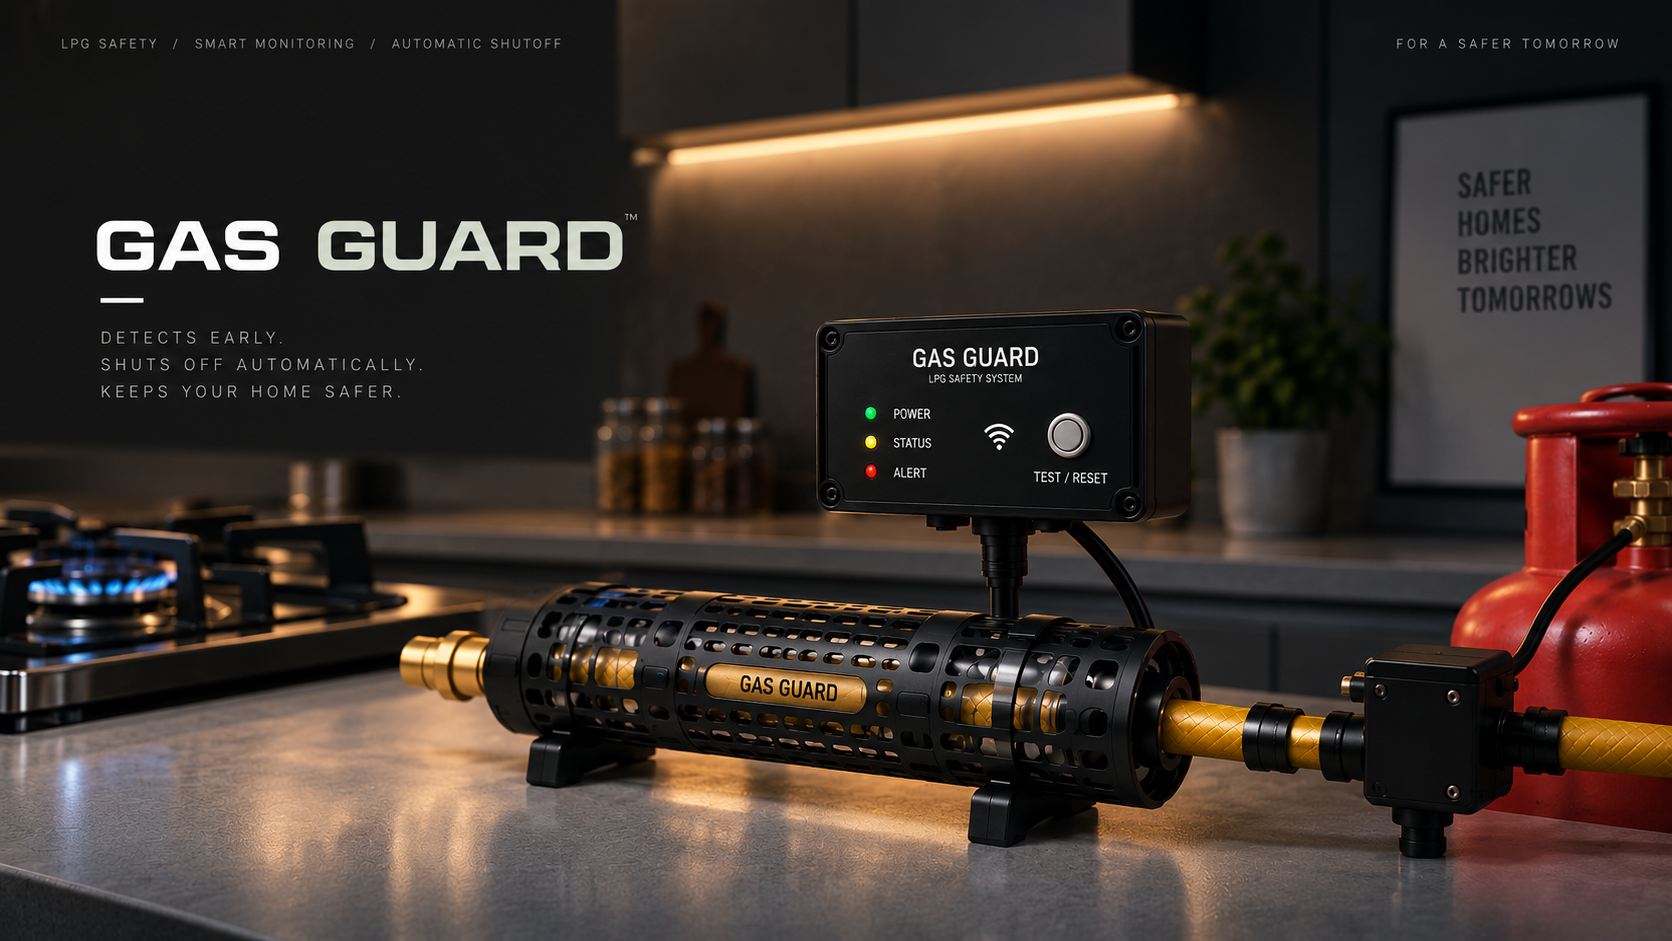
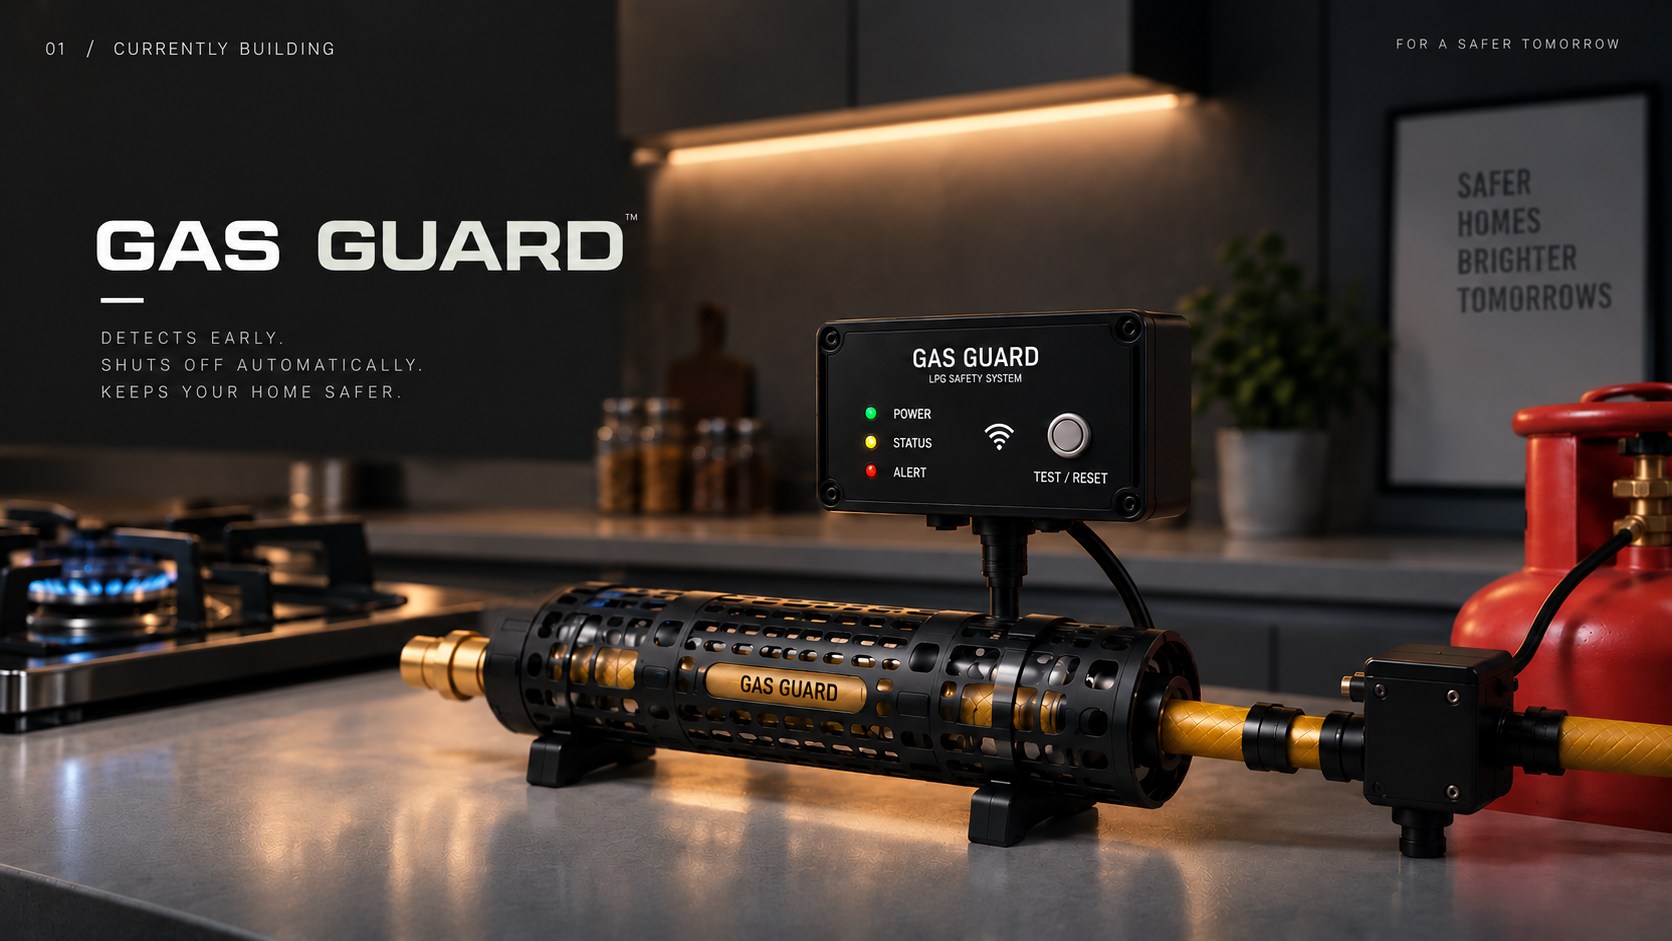
about completed

diff --git a/src/app/about/page.tsx b/src/app/about/page.tsx
@@ -246,66 +246,14 @@ export default function AboutPage() {
         ==================================================
       */}
       <section className="relative w-full border-b border-[var(--foreground)]/10 overflow-hidden bg-[#0a0a0a]">
-        {/* Full-bleed image with dark overlay */}
+        {/* Full-bleed image */}
         <div className="relative w-full h-[70vh] md:h-[85vh] overflow-hidden">
           <img
             src={currentlyBuilding.image}
-            alt={currentlyBuilding.subtitle}
-            className="w-full h-full object-cover scale-[1.05] parallax-img"
+            alt="Currently Building"
+            className="w-full h-full object-cover parallax-img"
             data-speed="0.08"
           />
-          {/* Dark gradient overlay */}
-          <div className="absolute inset-0 bg-gradient-to-b from-black/60 via-black/30 to-black/80" />
-          <div className="absolute inset-0 bg-gradient-to-r from-black/70 via-transparent to-black/30" />
-
-          {/* TOP BAR */}
-          <div className="absolute top-0 left-0 right-0 flex items-center justify-between px-6 md:px-10 pt-6 md:pt-8">
-            <div className="flex items-center gap-3 font-mono text-[9px] text-white/50 tracking-[0.25em] uppercase">
-              <span>{currentlyBuilding.index}</span>
-              <span className="text-white/20">/</span>
-              <span>CURRENTLY BUILDING</span>
-            </div>
-            <div className="hidden md:flex items-center gap-4 font-mono text-[9px] text-white/40 tracking-[0.2em] uppercase">
-              {currentlyBuilding.tags.map((t, i) => (
-                <span key={i} className="flex items-center gap-4">
-                  {i > 0 && <span className="text-white/20">/</span>}
-                  {t}
-                </span>
-              ))}
-            </div>
-          </div>
-
-          {/* MAIN CONTENT — bottom left */}
-          <div className="absolute bottom-0 left-0 right-0 px-6 md:px-10 pb-6 md:pb-8 flex flex-col md:flex-row items-end justify-between gap-6">
-            
-            {/* Left: Title block */}
-            <div className="flex flex-col gap-3 max-w-lg">
-              <h2 className="font-display font-black text-[clamp(2.5rem,6vw,5rem)] leading-[0.85] tracking-tighter uppercase text-white whitespace-pre-line">
-                {currentlyBuilding.title}
-              </h2>
-              <p className="font-sans text-base md:text-lg text-white/60 uppercase tracking-widest font-light">
-                {currentlyBuilding.subtitle}
-              </p>
-              <div className="w-8 h-[1px] bg-white/30 my-1" />
-              <p className="font-sans text-sm md:text-base text-white/50 leading-relaxed whitespace-pre-line">
-                {currentlyBuilding.description}
-              </p>
-            </div>
-
-            {/* Right: CTA */}
-            <a
-              href={currentlyBuilding.ctaHref}
-              className="group hidden md:flex items-center gap-3 font-mono text-[10px] text-white tracking-[0.25em] uppercase border border-white/30 hover:border-white/70 px-5 py-3 transition-all duration-300 flex-shrink-0 relative"
-            >
-              {/* Corner brackets */}
-              <span className="absolute top-0 left-0 w-2 h-2 border-t border-l border-white/60" />
-              <span className="absolute top-0 right-0 w-2 h-2 border-t border-r border-white/60" />
-              <span className="absolute bottom-0 left-0 w-2 h-2 border-b border-l border-white/60" />
-              <span className="absolute bottom-0 right-0 w-2 h-2 border-b border-r border-white/60" />
-              {currentlyBuilding.cta}
-              <span className="group-hover:translate-x-1 transition-transform duration-300">→</span>
-            </a>
-          </div>
         </div>
 
         {/* BOTTOM FEATURE BAR */}
@@ -335,10 +283,7 @@ export default function AboutPage() {
               </span>
             </div>
           ))}
-          {/* Mobile CTA */}
-          <a href={currentlyBuilding.ctaHref} className="md:hidden flex items-center justify-between px-6 py-5 border-t border-white/10 font-mono text-[9px] text-white/60 tracking-widest uppercase">
-            {currentlyBuilding.cta} <span>→</span>
-          </a>
+
         </div>
       </section>
 

diff --git a/src/data/about.ts b/src/data/about.ts
@@ -63,12 +63,6 @@ export const engineeringProfile = [
 ];
 
 export const currentlyBuilding = {
-  tag: "CURRENTLY BUILDING / 001",
-  index: "01",
-  title: "SMART LPG\nDUAL-SLEEVE",
-  subtitle: "HOSE MONITORING SYSTEM",
-  description: "Early leak detection. Automatic shutoff.\nMaximum safety for your home.",
-  tags: ["GAS SAFETY", "IoT", "EMBEDDED"],
   features: [
     { icon: "search", label: "CONTINUOUS\nMONITORING" },
     { icon: "shield", label: "AUTOMATIC\nSHUTOFF" },
@@ -83,14 +77,11 @@ export const currentlyBuilding = {
 export const timeline = [
   {
     year: "2026",
-    event: "[ ADD FUTURE EVENT / LAUNCH ]"
+    event: "QUALITY ENGINEERING INTERN\nTVS SENSING SOLUTION\nFIRST INDUSTRY EXPERIENCE"
   },
+
   {
     year: "2024",
-    event: "[ ADD EXPERIENCE / PROJECT ]"
-  },
-  {
-    year: "2022",
     event: "VELAMMAL VIDHYASHRAM \nHIGHER SECONDARY EDUCATION \nGUDUVANCHERY / CHENGALPATTU"
   }
 ];
